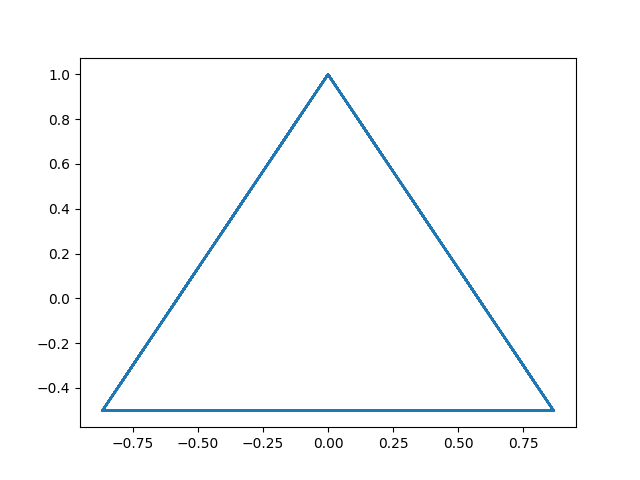
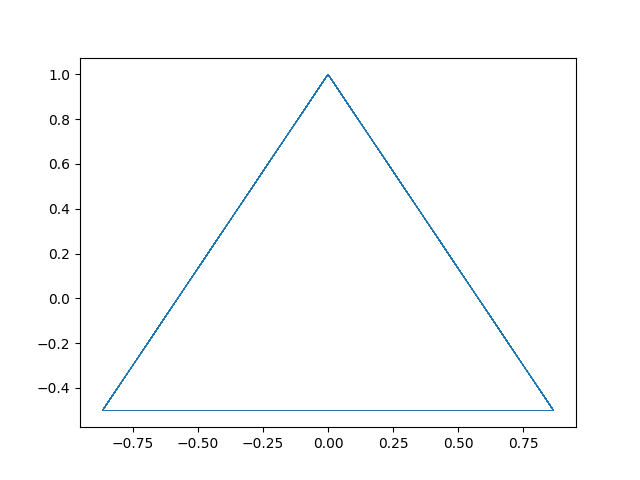
added md

Changed region(s): [[0.1562, 0.8438, 0.875, 0.875], [0.5, 0.1562, 0.5312, 0.1875]]

diff --git a/PyPacking.py b/PyPacking.py
@@ -27,7 +27,7 @@ def triangle_subdivision(n):
 
     x_verts.append(x_verts[0])
     y_verts.append(y_verts[0])
-    plt.plot(x_verts,y_verts)
+    plt.plot(x_verts,y_verts,linewidth=0.5)
 
     # 
     x_verts = x_verts[:-1]
@@ -47,7 +47,7 @@ def triangle_subdivision(n):
             x_verts_new.append(x_vert_new)
             y_verts_new.append(y_vert_new)
 
-            plt.plot([x,x_vert_new],[y,y_vert_new])
+            plt.plot([x,x_vert_new],[y,y_vert_new],linewidth=0.5)
 
         triangle_1 = [[x_verts[0],x_verts_new[1],x_centre],[y_verts[0],y_verts_new[1],y_centre]]
         triangle_2 = [[x_verts[0],x_verts_new[2],x_centre],[y_verts[0],y_verts_new[2],y_centre]]
@@ -130,4 +130,4 @@ def pack(num_of_sides):
     plt.show()
 
 #pack(5)
-#triangle_subdivision(4)
+#triangle_subdivision(3)

diff --git a/docs/packings.md b/docs/packings.md
@@ -1,0 +1,8 @@
+# Packings
+
+## subdivision
+
+<p float="left">
+  <img src="../Images/triangle_subdivision.gif" width="400" />
+</p>
+
